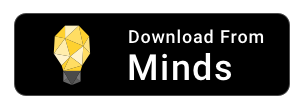
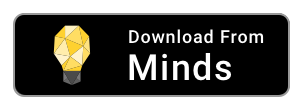
[Sprint/ModestMonkey](chore): Changed button and added version text #1804

Changed region(s): [[0.03, 0.1143, 0.99, 0.9429]]

diff --git a/src/app/modules/mobile/marketing/marketing.component.html b/src/app/modules/mobile/marketing/marketing.component.html
@@ -41,8 +41,10 @@
         </p>
         <p>In order to install this version you must:</p>
         <ul>
+          <li>Be running a minimum of Android 5 (Lollipop).</li>
           <li>
-            Update Phone settings to "enable downloads from unverified source"
+            Update Phone settings to "Allow installation of apps from unknown
+            sources".
           </li>
           <li>Download and install!</li>
         </ul>
